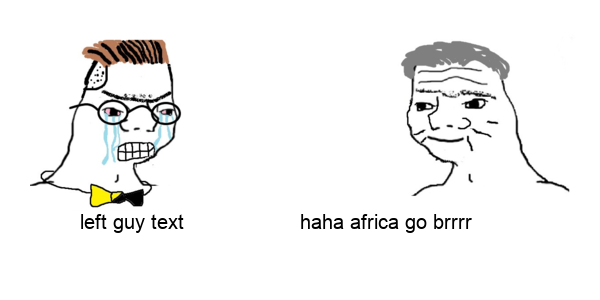
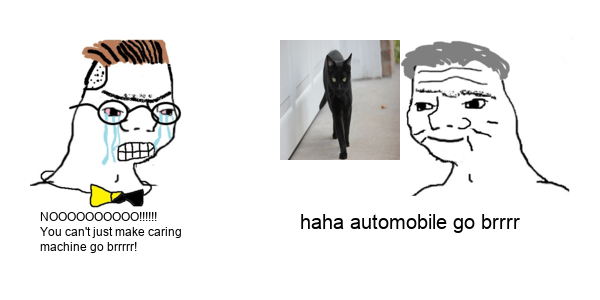
updated server to have 404 support

Changed region(s): [[0.45, 0.12, 0.69, 0.54], [0.06, 0.69, 0.33, 0.84], [0.6, 0.72, 0.87, 0.78]]

diff --git a/templates/frontpage.html b/templates/frontpage.html
@@ -14,7 +14,7 @@
 
 
   <form method="POST" action="/parse">
-  <input type="text" id="user_i" name="user_i"><br>
+  <input type="text" id="user_i" name="user_i" maxlength="20"><br>
   <button type="submit">brrrrrrr</button>
 
   </form>

diff --git a/flaskbrr.py b/flaskbrr.py
@@ -7,6 +7,8 @@ import urllib.request
 from pymongo import MongoClient
 from databasemachine import upsertDB, connect
 import makeimage
+from nltk.corpus import wordnet
+from random import randrange
 
 app = Flask(__name__)
 src = connect()
@@ -20,14 +22,43 @@ def parse():
     if request.method == "POST":
 
         #make verbose
+        verbo = request.form['user_i']
+
+        if verbo == "money printer":
+            return send_file('original_meme.png', mimetype='image')
+
+
+        verbose = "NOOOOOOOOOO" + '!'*randrange(5,8) + " You can't just make " + verbo + " go brrrrr!"
         #you cant just make -synonym/hypernym- machine go brrrrr
-        verbose = "NOOOOOOOOOOOOOOO!!! You can't just make " + request.form['user_i'] + " go brrrrr!"
+
+
+
+
 
 
         #get image from wikipedia and save to computer
         res = wikipedia.search(request.form['user_i'])
         img = ""
         if len(res) > 0:
+
+
+            if len(wordnet.synsets(verbo)) > 0:
+                syn = wordnet.synsets(request.form['user_i'])[0]
+                lemmas = syn.lemmas()
+                if len(syn.lemmas()) > 1:
+                    if lemmas[0].name() == verbo:
+                        verbo = lemmas[1].name()
+                    else:
+                        verbo = lemmas[0].name()
+                    print(verbo)
+                    verbo.replace("_"," ")
+                    verbose = "NOOOOOOOOOO" + '!'*randrange(5,8) + " You can't just make " + verbo + "ing machine go brrrrr!"
+                    print(verbose)
+
+            print(verbose)
+
+
+
             try:
                 imgs = [i for i in wikipedia.page(res[0]).images if i.endswith(".jpg")]
                 print(imgs)
@@ -37,17 +68,20 @@ def parse():
                     path = "static/"+request.form['user_i'].replace(" ","")+".jpg"
                     urllib.request.urlretrieve(img, path)
                 else:
-                    return 'uh oh thats bad'
+                    return send_file('404page.png', mimetype='image')
 
             except wikipedia.DisambiguationError as e:
-                imgs = [i for i in wikipedia.page(e.options[0]).images if i.endswith(".jpg")]
+                chosen = e.options[0]
+                if chosen == request.form['user_i']:
+                    chosen= e.options[1]
+                imgs = [i for i in wikipedia.page(chosen).images if i.endswith(".jpg")]
                 if len(imgs) > 0:
                     img = imgs[0]
                     print(img)
-                    path = "static/"+e.options[0].replace(" ","")+".jpg"
+                    path = "static/"+chosen.replace(" ","")+".jpg"
                     urllib.request.urlretrieve(img, path)
                 else:
-                    return 'uh oh thats bad section 2'
+                    return send_file('404page.png', mimetype='image')
 
 
 
@@ -66,20 +100,10 @@ def parse():
 
         #THIS MEANS SEARCH FAILED BRO
         else:
-            return 'sdfsdfds'
+            return send_file('404page.png', mimetype='image')
 
 
 
-
-
-
-
-        return verbose
-
-
-        #get image
-        #send to mongo
-        #assemble image
 
 if __name__ == "__main__":
     app.run(debug=True)

diff --git a/makeimage.py b/makeimage.py
@@ -1,7 +1,7 @@
 #TAKES ARG THAT IS MONGO KEY
 # from databasemachine import getLink
 from PIL import Image, ImageDraw, ImageFont
-
+import urllib.request
 def makeImage(key, src):
 
     #GET MONGO INFO
@@ -22,14 +22,25 @@ def makeImage(key, src):
 
 
     d = ImageDraw.Draw(img)
-    font = ImageFont.truetype("arial.ttf", 20)
+    font = ImageFont.truetype("arial.ttf", 12)
 
     #GET MONGO_VERBOSE
-    d.text((80,210), "left guy text", fill=(0,0,0), font=font)
+    verbose = verbose.replace("_"," ")
+    verbose = verbose.replace("! ","! \n")
+    verbose = verbose.replace("ing ma","ing \nma")
+    print(verbose)
+    d.text((40,210), verbose, fill=(0,0,0), font=font)
 
     #rightguy uses mongo_key
+    font = ImageFont.truetype("arial.ttf", 20)
     d.text((300,210), "haha "+key[:18]+" go brrrr", fill=(0,0,0), font=font)
 
-    #####ADDD WIKKIIIII IMAGE#############
+    path = "static/"+key.replace(" ","")+".jpg"
+    urllib.request.urlretrieve(link, path)
+
+    wiki = Image.open(path)
+    w1 = wiki.resize((120,120))
+    img.paste(w1, (280,40))
+
 
     img.save('go_brr.png')
